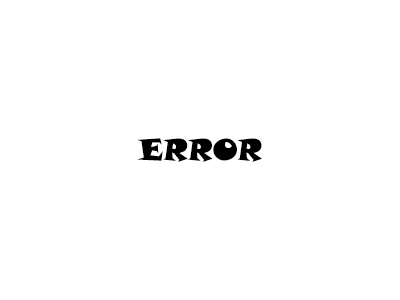
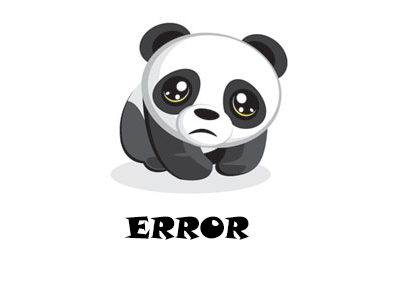
Added complete Error images/error_panda.png Removed Application Insights Added System.Runtime.Serialization.Primitives reference

Changed region(s): [[0.27, 0.06, 0.72, 0.66], [0.3, 0.72, 0.63, 0.81]]

diff --git a/src/hostinpanda.web/Program.cs b/src/hostinpanda.web/Program.cs
@@ -13,7 +13,6 @@ namespace hostinpanda.web
                 .UseContentRoot(Directory.GetCurrentDirectory())
                 .UseIISIntegration()
                 .UseStartup<Startup>()
-                .UseApplicationInsights()
                 .Build();
 
             host.Run();
